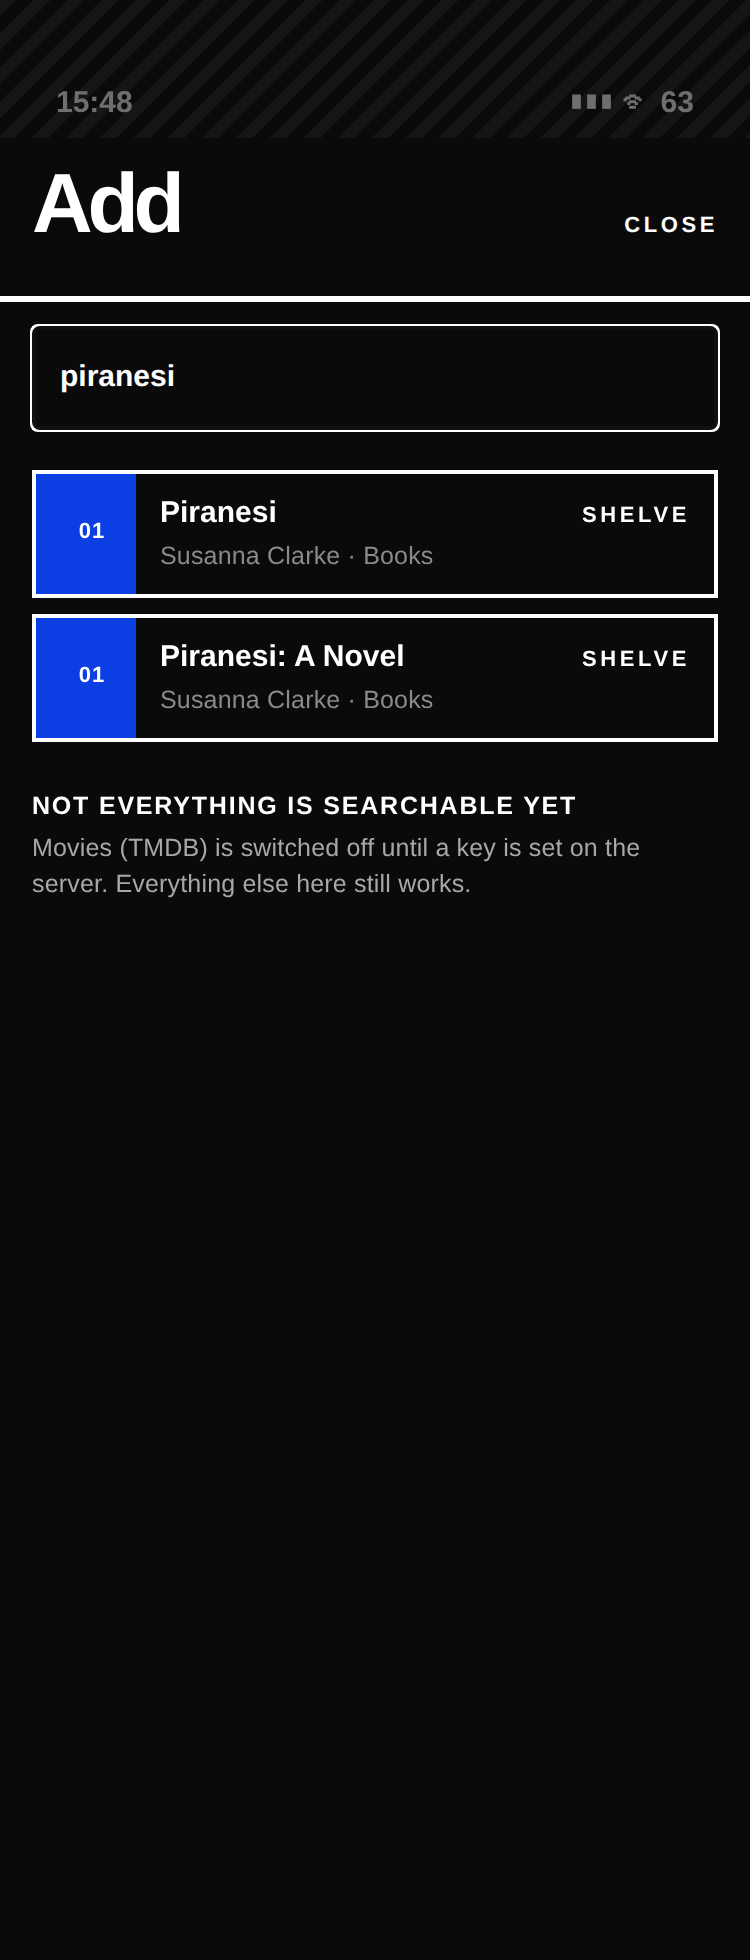
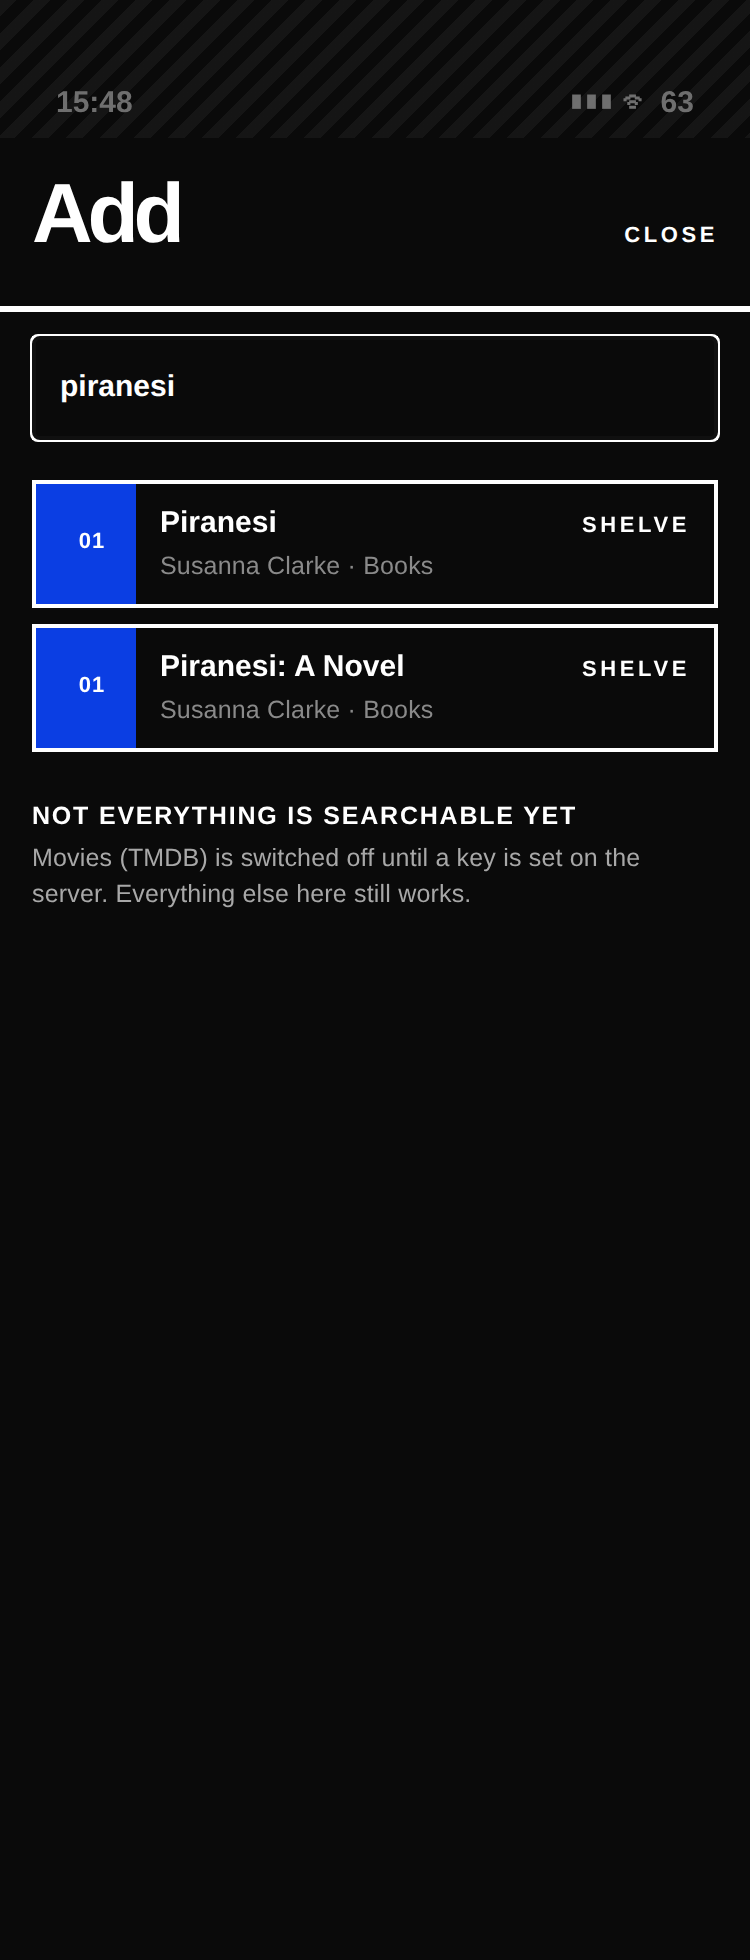
The f of "shelf" was being clipped on iOS
42pt type in a 38pt line box. On the web that overflows and draws anyway,
which is why every screenshot ever taken of this app looked right; on iOS
the glyph is clipped to the line box, and what goes first is whatever
reaches highest — in "shelf" that is the f. Reported from a device.

The gate had a rule for this and it PASSED, because it allowed "solid"
leading down to 0.85 and 38/42 is 0.90. It also only ever read the scale
in design.js, while the wordmark is an override in theme.ts that the gate
was not looking at. So: the line box may never be shorter than the type,
and a rule can now name its own files — `line-box` reads theme.ts, where
the type is actually decided. 25 rules, each still proven to fire.

The header is 44pt of tap target either way, so this costs nothing.

Also, the Render URL on shared links. The app already supported a real
domain; it was just unset and invisible. EXPO_PUBLIC_SHELF_WEB is now
explicit in eas.json — one place to type a domain — and smoke.mjs fails
when the app and the server disagree about where links live. That
half-configured state is the bad one: every link works while its preview
card points somewhere else. Buying the domain is still yours to do;
OPERATIONS says exactly what to set.

Changed region(s): [[0.0307, 0.1556, 0.9813, 0.4668], [0.0307, 0.0622, 0.2453, 0.1245], [0.828, 0.0934, 0.9507, 0.1245]]

diff --git a/app/src/theme.ts b/app/src/theme.ts
@@ -49,12 +49,27 @@ const asText = (t: (typeof D.type)[keyof typeof D.type], extra: TextStyle = {}):
 });
 
 /**
- * One family, four jobs. Display is set SOLID (line-height below the size) —
- * a wordmark and a band label are single lines and leading is dead space in
- * both. Everything caps-and-tracked is chrome; only item titles are not.
+ * One family, four jobs. Everything caps-and-tracked is chrome; only item
+ * titles are not.
+ *
+ * DISPLAY IS SET TIGHT, NOT SOLID — and that distinction cost a bug report.
+ * The wordmark was 42pt type in a 38pt line box, four points shorter than the
+ * type it holds. On the web that is fine: CSS line-height smaller than the
+ * font size overflows the box and draws anyway. **On iOS the glyph is clipped
+ * to the line box**, and what gets clipped is whatever reaches highest — in
+ * "shelf" that is the f, whose hook is the tallest thing in the word. Reported
+ * from a device as "the f of shelf is getting cut".
+ *
+ * The render harness could never have caught it: react-native-web emits CSS
+ * line-height, which does not clip. Same shape as the safe-area bug — the
+ * harness is a browser, and a browser is not the phone.
+ *
+ * 48 is fontSize + 6: above the type with headroom for an ascender, and still
+ * well under the ~50pt this face would take naturally. The header row is
+ * 44pt of tap target either way, so this costs four points of chrome.
  */
 export const t = {
-  wordmark: { ...asText(D.type.display), fontWeight: "700" as const, fontSize: 42, lineHeight: 38, letterSpacing: -2.6 },
+  wordmark: { ...asText(D.type.display), fontWeight: "700" as const, fontSize: 42, lineHeight: 48, letterSpacing: -2.6 },
   band: { ...asText(D.type.title), fontWeight: "700" as const, fontSize: 31, lineHeight: 31, letterSpacing: -1.5, textTransform: "uppercase" as const },
   itemTitle: { ...asText(D.type.heading), fontWeight: "700" as const, letterSpacing: -0.4 },
   // A jacket title. Set solid-ish and ranged left, the way a cover is set —

diff --git a/OPERATIONS.md b/OPERATIONS.md
@@ -265,6 +265,27 @@ would have shipped a server that dies on its first import. It now builds with
 difference between the two is an oracle for guessing codes. `renderGone()` takes
 no argument for exactly that reason.
 
+### Giving it a real name
+
+Right now a shared link reads `https://shelf-api-u8xy.onrender.com/s/vbn4kt2p`
+— it works, and it looks like a server. A domain is **two settings that must
+agree**, and setting one without the other is worse than setting neither:
+
+| Where | What | Why |
+|---|---|---|
+| `app/eas.json` → `EXPO_PUBLIC_SHELF_WEB` | both profiles | what the APP puts in the link it hands you |
+| Render → `SHELF_WEB_BASE` | the service | what the SERVER writes into `og:url` on the page |
+
+Point the domain at the Render service (CNAME), add it under Custom Domains
+there, set both values, then **rebuild the app** — `EXPO_PUBLIC_SHELF_*` is
+baked in at build time, so an over-the-air update cannot change where links
+point.
+
+Half-configured, every link you hand out works while its preview card points
+somewhere else, or carries no canonical address and renders as a grey
+rectangle in a message. `node api/smoke.mjs <url>` compares the two and fails
+if they disagree.
+
 **`SHELF_WEB_BASE` is an override, not a requirement.** The server falls back to
 `RENDER_EXTERNAL_URL`, which Render sets to the service's own address — so the
 ordinary deploy needs no configuration for this at all. That is deliberate: the
